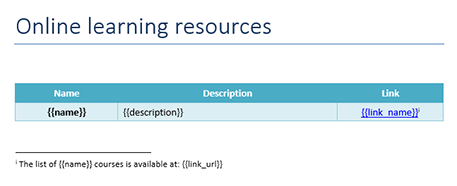
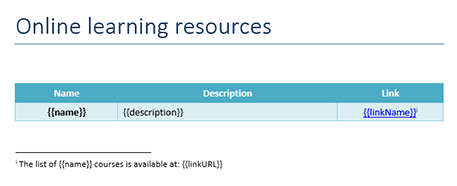
Editing links and endnotes section

Changed region(s): [[0.7659, 0.5645, 0.919, 0.6452], [0.4289, 0.8602, 0.4902, 0.914]]

diff --git a/source/document-generation/docx/external-links.rst b/source/document-generation/docx/external-links.rst
@@ -1,11 +1,22 @@
-External Links
-==============
+Links and endnotes
+==================
+
+.. contents:: Content
+    :local:
+    :depth: 1
 
 .. _external-links:
 
-*Create DOCX from template* actions allows you to add a dynamic hyperlink to a location on the web  or to a new email message.
+**Create DOCX document from template** action allows you to add dynamic hyperlinks to a location on the web, as well as endnotes and footnotes.
 
-Let us assume we have a list of online learning resources. JSON representation of the object:
+You can download the source document and the result document for the example described below in `links and endnotes demo <./demos.html#links-and-endnotes>`_.
+
+Links
+-----
+
+Let us assume we have a list of online learning resources.
+
+JSON representation of the object:
 
 .. code:: json
 
@@ -13,20 +24,20 @@ Let us assume we have a list of online learning resources. JSON representation o
         {
             "name": "The Open University",
             "description": "Distance and online courses. Qualifications range from certificates, diplomas and short courses to undergraduate and postgraduate degrees.",
-            "link_name": "Go to the site",
-            "link_url": "http://www.openuniversity.edu/courses"
+            "linkName": "Go to the site",
+            "linkURL": "http://www.openuniversity.edu/courses"
         },
         {
             "name": "Coursera",
             "description": "Online courses from top universities like Yale, Michigan, Stanford, and leading companies like Google and IBM.",
-            "link_name": "Go to the site",
-            "link_url": "https://plato.stanford.edu/"
+            "linkName": "Go to the site",
+            "linkURL": "https://plato.stanford.edu/"
         },
         {
             "name": "edX",
             "description": "Flexible learning on your schedule. Access more than 1900 online courses from 100+ leading institutions including Harvard, MIT, Microsoft, and more.",
-            "link_name": "Go to the site",
-            "link_url": "https://www.edx.org/"
+            "linkName": "Go to the site",
+            "linkURL": "https://www.edx.org/"
         }
     ]
 
@@ -40,12 +51,15 @@ We designed a table with a header and just one row that contains our tags. The t
 
 To refer properties of the objects we just used the names of the properties:
 
-:code:`{{name}}`, :code:`{{description}}`, :code:`{{link_name}}`, :code:`{{link_url}}`.
+:code:`{{name}}`, :code:`{{description}}`, :code:`{{linkName}}`, :code:`{{linkURL}}`.
 
 To create a hyperlink to a location on the web we select the text that we want to display as a hyperlink, on the **Insert** tab in MS Word, click **Link**, navigate to the **Existing File or Web Page** tab and add a tag into the **Address** field:
 
 .. image:: ../../_static/img/document-generation/insert-hyperlink-url.png
     :alt: Insert hyperlink: URL
+
+Endnotes
+--------
 
 We have also added endnotes to our template. To do that please click where you want to add an endnote, click **References** in the top ribbon and **Insert Endnote**.
 
@@ -54,9 +68,7 @@ We have also added endnotes to our template. To do that please click where you w
 
 Endnotes and footnotes maintain the context of their definition. This allows the template engine to replace multiple tags which belong to the same context.
 
-You can see the result of rendering below. The templating engine created web hyperlinks in the document:
+You can see the result of rendering below. The templating engine created web hyperlinks and endnotes in the document:
 
 .. image:: ../../_static/img/document-generation/external-links-result.png
     :alt: External links result
-
-You can download the source document and the result document for this example in `external links demo <./demos.html#external-links>`_.

diff --git a/source/document-generation/docx/demos.rst b/source/document-generation/docx/demos.rst
@@ -417,9 +417,9 @@ Scroll down to see source data for the template in JSON format.
     ]
 
 
-    .. _external-links:
+.. _links-and-endnotes:
 
-External Links
+Links and endnotes
 --------------
 
 This demo shows how to add external links to your document. You can find the description of this case in the `external links <external-links.html>`_ section of the documentation.
@@ -448,20 +448,20 @@ Scroll down to see source data for the template in JSON format.
         {
             "name": "The Open University",
             "description": "Distance and online courses. Qualifications range from certificates, diplomas and short courses to undergraduate and postgraduate degrees.",
-            "link_name": "Go to the site",
-            "link_url": "http://www.openuniversity.edu/courses"
+            "linkName": "Go to the site",
+            "linkURL": "http://www.openuniversity.edu/courses"
         },
         {
             "name": "Coursera",
             "description": "Online courses from top universities like Yale, Michigan, Stanford, and leading companies like Google and IBM.",
-            "link_name": "Go to the site",
-            "link_url": "https://plato.stanford.edu/"
+            "linkName": "Go to the site",
+            "linkURL": "https://plato.stanford.edu/"
         },
         {
             "name": "edX",
             "description": "Flexible learning on your schedule. Access more than 1900 online courses from 100+ leading institutions including Harvard, MIT, Microsoft, and more.",
-            "link_name": "Go to the site",
-            "link_url": "https://www.edx.org/"
+            "linkName": "Go to the site",
+            "linkURL": "https://www.edx.org/"
         }
     ]
 

diff --git a/source/document-generation/docx/tables.rst b/source/document-generation/docx/tables.rst
@@ -5,7 +5,7 @@ Tables in DOCX templates
     :local:
     :depth: 1
 
-With help of Plumsail Word DOCX templates action, you can create rich tables based on templates with a minimal amount of syntax. In the templates, you can refer properties inside simple objects and collections, as well as properties in nested constructions. Let us check a few examples.
+With help of **Create DOCX document from template** action, you can create rich tables based on templates with a minimal amount of syntax. In the templates, you can refer properties inside simple objects and collections, as well as properties in nested constructions. Let us check a few examples.
 
 .. _tables:
 

diff --git a/source/document-generation/docx/index.rst b/source/document-generation/docx/index.rst
@@ -11,7 +11,7 @@ Word DOCX templates
             How it works <how-it-works>
             Lists <lists>
             Tables <tables>
-            External links <external-links>
+            Links and endnotes <external-links>
             Loops and nesting <loops-and-nesting>
             Conditionally hide blocks <conditionally-hide-blocks>
             Value formatters <formatters>
